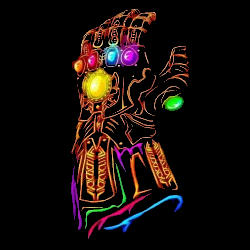
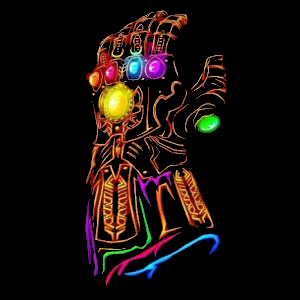
updates

diff --git a/OtherTransistions.py b/OtherTransistions.py
@@ -117,7 +117,7 @@ def I_Transistion_SinglePixelExplode_Fast(I, StartLocation, TransistionFuncs, N=
 mainPath = 'TestImgs/'
 imgName = 'Test2.jpg'
 
-imgSize = (250, 250, 3)
+imgSize = (300, 300, 3)
 
 StartLocation = (0.1, 0.1)
 relativeStart = True
@@ -143,6 +143,7 @@ saveData = True
 # Read the Image and Resize
 I = cv2.imread(mainPath + imgName)
 I, imgSize = Utils.ResizeImage(I, imgSize)
+print(imgSize)
 
 # Simplify BGColors
 I = ImageSimplify.ImageSimplify_RangeReplace(I, valRange=BGColorRange, replaceVal=BGColor)
